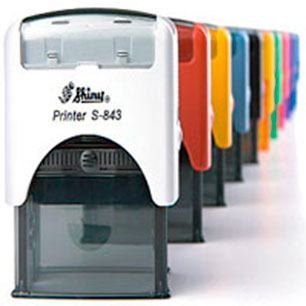
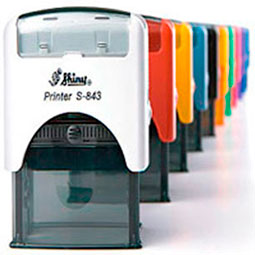
new sizes for images

diff --git a/web/productos-diseno.html b/web/productos-diseno.html
@@ -18,6 +18,7 @@
     <!-- Theme CSS -->
     <link href="css/creative.min.css" rel="stylesheet">
     <link rel="stylesheet" type="text/css" href="css/main.css">
+    <link rel="stylesheet" type="text/css" href="css/productos.css">
     <link rel="shortcut icon" href="img/logo-byte.png"/>
     <!-- HTML5 Shim and Respond.js IE8 support of HTML5 elements and media queries -->
     <!-- WARNING: Respond.js doesn't work if you view the page via file:// -->
@@ -104,7 +105,7 @@
                 <!--caja catalogos-->
                 <div class="col-md-3 col-sm-6 ">
                     <div class="service-box">
-                        <div class="service-icon orange">
+                        <div class="service-icon red">
                             <div class="front-content">
                             <i class="fa fa-5x fa-newspaper-o text-primary sr-icons"></i>
                             <h3>Catálogos</h3>
@@ -136,10 +137,7 @@
                 </div>
             </div>
         </div>
-</section>
-<br>
-<!--diseño web cajas-->
-<section id="services">
+        <!--diseño web cajas-->
         <div class="container">
             <div class="row">
                 <div class="col-lg-12 text-center">
@@ -153,9 +151,9 @@
                 <!--caja codigo-->
                 <div class="col-lg-3 col-md-6 text-center">          
                     <div class="service-box">
-                        <div class="service-icon yellow">
+                        <div class="service-icon html">
                             <div class="front-content">
-                            <i class="fa fa-5x fa-credit-card text-primary sr-icons"></i>
+                            <i class="fa fa-5x fa-html5 text-primary sr-icons"></i>
                             <h3>Código</h3>
                             </div>
                         </div>
@@ -170,9 +168,9 @@
                 <!--caja wordpress-->
                 <div class="col-md-3 col-sm-6 ">
                     <div class="service-box">
-                        <div class="service-icon orange">
+                        <div class="service-icon wordpress">
                             <div class="front-content">
-                            <i class="fa fa-4x fa-paper-plane-o text-primary sr-icons"></i>
+                            <i class="fa fa-4x fa-wordpress text-primary sr-icons"></i>
                             <h3>Wordpress</h3>
                             </div>
                         </div>
@@ -187,9 +185,9 @@
                 <!--caja bootstrap-->
                 <div class="col-md-3 col-sm-6 ">
                     <div class="service-box">
-                        <div class="service-icon orange">
+                        <div class="service-icon bootstrap">
                             <div class="front-content">
-                            <i class="fa fa-5x fa-newspaper-o text-primary sr-icons"></i>
+                            <i class="fa fa-5x fa-cube text-primary sr-icons"></i>
                             <h3>Bootstrap</h3>
                             </div>
                         </div>
@@ -203,9 +201,9 @@
                 <!--caja google-->
                 <div class="col-md-3 col-sm-6 ">
                     <div class="service-box">
-                        <div class="service-icon grey">
+                        <div class="service-icon google">
                             <div class="front-content">
-                            <i class="fa fa-5x fa-briefcase text-primary sr-icons"></i>
+                            <i class="fa fa-5x fa-google-plus-official text-primary sr-icons"></i>
                             <h3>Material Google</h3>
                             </div>
                         </div>
@@ -219,6 +217,8 @@
             </div>
         </div>
 </section>
+<!--fin diseño web cajas-->
+
 
 <!--tarjetas-->
 <section class="well" id="tarjetas">
@@ -302,10 +302,10 @@
                 <h2 class="section-heading">Código</h2>
                 <hr>
                 <div class="row">
-                  <a href="pago.html"><div class="col-sm-3"><img src="img/pgraficos/tarjetas.jpg"></div></a>
-                  <a href="pago.html"><div class="col-sm-3"><img src="img/pgraficos/tarjetas.jpg"></div></a>
-                  <a href="pago.html"><div class="col-sm-3"><img src="img/pgraficos/tarjetas.jpg"></div></a>
-                  <a href="pago.html"><div class="col-sm-3"><img src="img/pgraficos/tarjetas.jpg"></div></a>
+                  <a href="http://www.naturalequilibrio.es/"><div class="col-sm-3"><img src="img/pgraficos/equilibrio.jpg" target_blank></div></a>
+                  <a href="https://www.lorenzoycanton.com/"><div class="col-sm-3"><img src="img/pgraficos/lyc.jpg"></div></a>
+                  <a href="pago.html" target_blank><div class="col-sm-3"><img src="img/pgraficos/tarjetas.jpg"></div></a>
+                  <a href="pago.html" target_blank><div class="col-sm-3"><img src="img/pgraficos/tarjetas.jpg"></div></a>
                 </div>
             </div>
         </div>
@@ -320,10 +320,10 @@
                 <h2 class="section-heading">Wordpress</h2>
                 <hr>
                 <div class="row">
-                  <a href="pago.html"><div class="col-sm-3"><img src="img/pgraficos/flyer.jpg"></div></a>
-                  <a href="pago.html"><div class="col-sm-3"><img src="img/pgraficos/flyer.jpg"></div></a>
-                  <a href="pago.html"><div class="col-sm-3"><img src="img/pgraficos/flyer.jpg"></div></a>
-                  <a href="pago.html"><div class="col-sm-3"><img src="img/pgraficos/flyer.jpg"></div></a>
+                  <a href="http://profesionalesholanda.org/"><div class="col-sm-3"><img src="img/pgraficos/aeph.jpg"></div></a>
+                  <a href="pago.html" target_blank><div class="col-sm-3"><img src="img/pgraficos/wordpress.jpg"></div></a>
+                  <a href="pago.html" target_blank><div class="col-sm-3"><img src="img/pgraficos/wordpress.jpg"></div></a>
+                  <a href="pago.html" target_blank><div class="col-sm-3"><img src="img/pgraficos/wordpress.jpg"></div></a>
                 </div>
             </div>
         </div>
@@ -338,10 +338,10 @@
                 <h2 class="section-heading">Bootstrap</h2>
                 <hr>
                 <div class="row">
-                  <a href="pago.html"><div class="col-sm-3"><img src="img/pgraficos/catalogos.jpg"></div></a>
-                  <a href="pago.html"><div class="col-sm-3"><img src="img/pgraficos/catalogos.jpg"></div></a>
-                  <a href="pago.html"><div class="col-sm-3"><img src="img/pgraficos/catalogos.jpg"></div></a>
-                  <a href="pago.html"><div class="col-sm-3"><img src="img/pgraficos/catalogos.jpg"></div></a>
+                  <a href="http://devel1.bytedesigning.net/web/index.html" target_blank><div class="col-sm-3"><img src="img/pgraficos/webyte.jpg"></div></a>
+                  <a href="pago.html" target_blank><div class="col-sm-3"><img src="img/pgraficos/catalogos.jpg"></div></a>
+                  <a href="pago.html" target_blank><div class="col-sm-3"><img src="img/pgraficos/catalogos.jpg"></div></a>
+                  <a href="pago.html" target_blank><div class="col-sm-3"><img src="img/pgraficos/catalogos.jpg"></div></a>
                 </div>
             </div>
         </div>
@@ -356,10 +356,10 @@
                 <h2 class="section-heading">Material Google</h2>
                 <hr>
                 <div class="row">
-                  <a href="pago.html"><div class="col-sm-3"><img src="img/pgraficos/oficina1.jpg"></div></a>
-                  <a href="pago.html"><div class="col-sm-3"><img src="img/pgraficos/oficina2.jpg"></div></a>
-                  <a href="pago.html"><div class="col-sm-3"><img src="img/pgraficos/oficina3.jpg"></div></a>
-                  <a href="pago.html"><div class="col-sm-3"><img src="img/pgraficos/oficina4.jpg"></div></a>
+                  <a href="pago.html" target_blank><div class="col-sm-3"><img src="img/pgraficos/oficina1.jpg"></div></a>
+                  <a href="pago.html" target_blank><div class="col-sm-3"><img src="img/pgraficos/oficina2.jpg"></div></a>
+                  <a href="pago.html" target_blank><div class="col-sm-3"><img src="img/pgraficos/oficina3.jpg"></div></a>
+                  <a href="pago.html" target_blank><div class="col-sm-3"><img src="img/pgraficos/oficina4.jpg"></div></a>
                 </div>
             </div>
         </div>

diff --git a/web/css/main.css b/web/css/main.css
@@ -454,122 +454,7 @@ footer {
     border-color: #fff;
 }
 /*fin slider*/
-.mdl-textfield.is-invalid .mdl-textfield__input {
-    border-color: #f05f40 !important;
-    box-shadow: none;
-}
-.mdl-textfield__input {
-    border: none;
-    border-bottom: 1px solid rgba(0,0,0,.12);
-    display: block;
-    font-size: 16px;
-    font-family: "Helvetica","Arial",sans-serif;
-    margin: 0;
-    padding: 4px 0;
-    width: 100%;
-    background: 0 0;
-    text-align: left;
-    color: black !important;
-}
-.mdl-textfield.is-invalid .mdl-textfield__input {
-    border-color: #f05f40 !important;
-    box-shadow: none;
-}
-        .service-box{
-            position: relative;
-            overflow: hidden;
-            margin-bottom:10px;
-            perspective:1000px;
-            -webkit-perspective:1000px;
-        }
-        .service-icon{
-            width: 100%;
-            height: 220px;
-            padding: 20px;
-            text-align: center;
-            transition: all .5s ease;
-        }
 
-        .service-content{
-            position: absolute;
-            top: 0;
-            left: 0;
-            z-index: 1;
-            opacity: 0;
-            width: 100%;
-            height: 220px;
-            padding: 20px;
-            text-align: center;
-            transition: all .5s ease;
-            background-color: #575757;
-            backface-visibility:hidden;
-            transform-style: preserve-3d;
-            -webkit-transform: translateY(110px) rotateX(-90deg);
-            -moz-transform: translateY(110px) rotateX(-90deg);
-            -ms-transform: translateY(110px) rotateX(-90deg);
-            -o-transform: translateY(110px) rotateX(-90deg);
-            transform: translateY(110px) rotateX(-90deg);
-        }
-        .service-box .service-icon .front-content{
-            position: relative;
-            top:80px;
-            -webkit-transform: translateY(-50%);
-            -moz-transform: translateY(-50%);
-            -ms-transform: translateY(-50%);
-            -o-transform: translateY(-50%);
-            transform: translateY(-50%);
-        }
-
-        .service-box .service-icon .front-content i {
-            font-size: 28px;
-            color: #fff;
-            font-weight: normal;
-        }
-
-        .service-box .service-icon .front-content h3 {
-            font-size: 15px;
-            font-weight: bold;
-            color: white;
-            text-align: center;
-            margin-top: 98px;
-            text-transform: uppercase;
-            text-decoration: overline;
-            text-decoration-color: #f05f40;
-        }
-        .service-box .service-content h3 {
-            font-size: 15px;
-            font-weight: 700;
-            color: #F05F40;
-            margin-bottom:10px;
-            text-transform: uppercase;
-        }
-        .service-box .service-content p {
-            font-size: 13px;
-            color: #b1b1b1;
-            margin:0;
-        }
-        .almudena{background-image: url(../img/almudena.jpg);}
-        .luis{background-image: url(../img/luis.jpg);}
-        .yellow {background-image:url(../img/pgraficos/tarjetas.jpg);}
-        .orange {background-image:url(../img/pgraficos/tarjetas.jpg);}        
-        .red {background-image:url(../img/pgraficos/tarjetas.jpg);}
-        .grey {background-image:url(../img/pgraficos/tarjetas.jpg);}
-        .service-box:hover .service-icon{
-            opacity: 0;
-            -webkit-transform: translateY(-110px) rotateX(90deg);
-            -moz-transform: translateY(-110px) rotateX(90deg);
-            -ms-transform: translateY(-110px) rotateX(90deg);
-            -o-transform: translateY(-110px) rotateX(90deg);
-            transform: translateY(-110px) rotateX(90deg);
-        }
-        .service-box:hover .service-content {
-            opacity: 1;
-            -webkit-transform: rotateX(0);
-            -moz-transform: rotateX(0);
-            -ms-transform: rotateX(0);
-            -o-transform: rotateX(0);
-            transform: rotateX(0);
-        }
 .subir {
     display: block;
     position: sticky;

diff --git a/web/css/productos.css b/web/css/productos.css
@@ -1,0 +1,120 @@
+.mdl-textfield.is-invalid .mdl-textfield__input {
+    border-color: #f05f40 !important;
+    box-shadow: none;
+}
+.mdl-textfield__input {
+    border: none;
+    border-bottom: 1px solid rgba(0,0,0,.12);
+    display: block;
+    font-size: 16px;
+    font-family: "Helvetica","Arial",sans-serif;
+    margin: 0;
+    padding: 4px 0;
+    width: 100%;
+    background: 0 0;
+    text-align: left;
+    color: black !important;
+}
+.mdl-textfield.is-invalid .mdl-textfield__input {
+    border-color: #f05f40 !important;
+    box-shadow: none;
+}
+        .service-box{
+            position: relative;
+            overflow: hidden;
+            margin-bottom:10px;
+            perspective:1000px;
+            -webkit-perspective:1000px;
+        }
+        .service-icon{
+            width: 100%;
+            height: 220px;
+            padding: 20px;
+            text-align: center;
+            transition: all .5s ease;
+        }
+
+        .service-content{
+            position: absolute;
+            top: 0;
+            left: 0;
+            z-index: 1;
+            opacity: 0;
+            width: 100%;
+            height: 220px;
+            padding: 20px;
+            text-align: center;
+            transition: all .5s ease;
+            background-color: #575757;
+            backface-visibility:hidden;
+            transform-style: preserve-3d;
+            -webkit-transform: translateY(110px) rotateX(-90deg);
+            -moz-transform: translateY(110px) rotateX(-90deg);
+            -ms-transform: translateY(110px) rotateX(-90deg);
+            -o-transform: translateY(110px) rotateX(-90deg);
+            transform: translateY(110px) rotateX(-90deg);
+        }
+        .service-box .service-icon .front-content{
+            position: relative;
+            top:80px;
+            -webkit-transform: translateY(-50%);
+            -moz-transform: translateY(-50%);
+            -ms-transform: translateY(-50%);
+            -o-transform: translateY(-50%);
+            transform: translateY(-50%);
+        }
+
+        .service-box .service-icon .front-content i {
+            font-size: 28px;
+            color: #fff;
+            font-weight: normal;
+        }
+
+        .service-box .service-icon .front-content h3 {
+            font-size: 15px;
+            font-weight: bold;
+            color: white;
+            text-align: center;
+            margin-top: 98px;
+            text-transform: uppercase;
+            text-decoration: overline;
+            text-decoration-color: #f05f40;
+        }
+        .service-box .service-content h3 {
+            font-size: 15px;
+            font-weight: 700;
+            color: #F05F40;
+            margin-bottom:10px;
+            text-transform: uppercase;
+        }
+        .service-box .service-content p {
+            font-size: 13px;
+            color: #b1b1b1;
+            margin:0;
+        }
+        .almudena{background-image: url(../img/almudena.jpg);}
+        .luis{background-image: url(../img/luis.jpg);}
+        .yellow {background-color: #44332B;}
+        .orange {background-color: #09C299;}        
+        .red {background-color: #9E152D;}
+        .grey {background-color: #4E4F50;}
+        .wordpress {background-color: #00769c;}
+        .bootstrap {background-color: #563C79;}
+        .google {background-color: #EA4335;}
+        .html {background-color: #EC662B;}
+        .service-box:hover .service-icon{
+            opacity: 0;
+            -webkit-transform: translateY(-110px) rotateX(90deg);
+            -moz-transform: translateY(-110px) rotateX(90deg);
+            -ms-transform: translateY(-110px) rotateX(90deg);
+            -o-transform: translateY(-110px) rotateX(90deg);
+            transform: translateY(-110px) rotateX(90deg);
+        }
+        .service-box:hover .service-content {
+            opacity: 1;
+            -webkit-transform: rotateX(0);
+            -moz-transform: rotateX(0);
+            -ms-transform: rotateX(0);
+            -o-transform: rotateX(0);
+            transform: rotateX(0);
+        }
